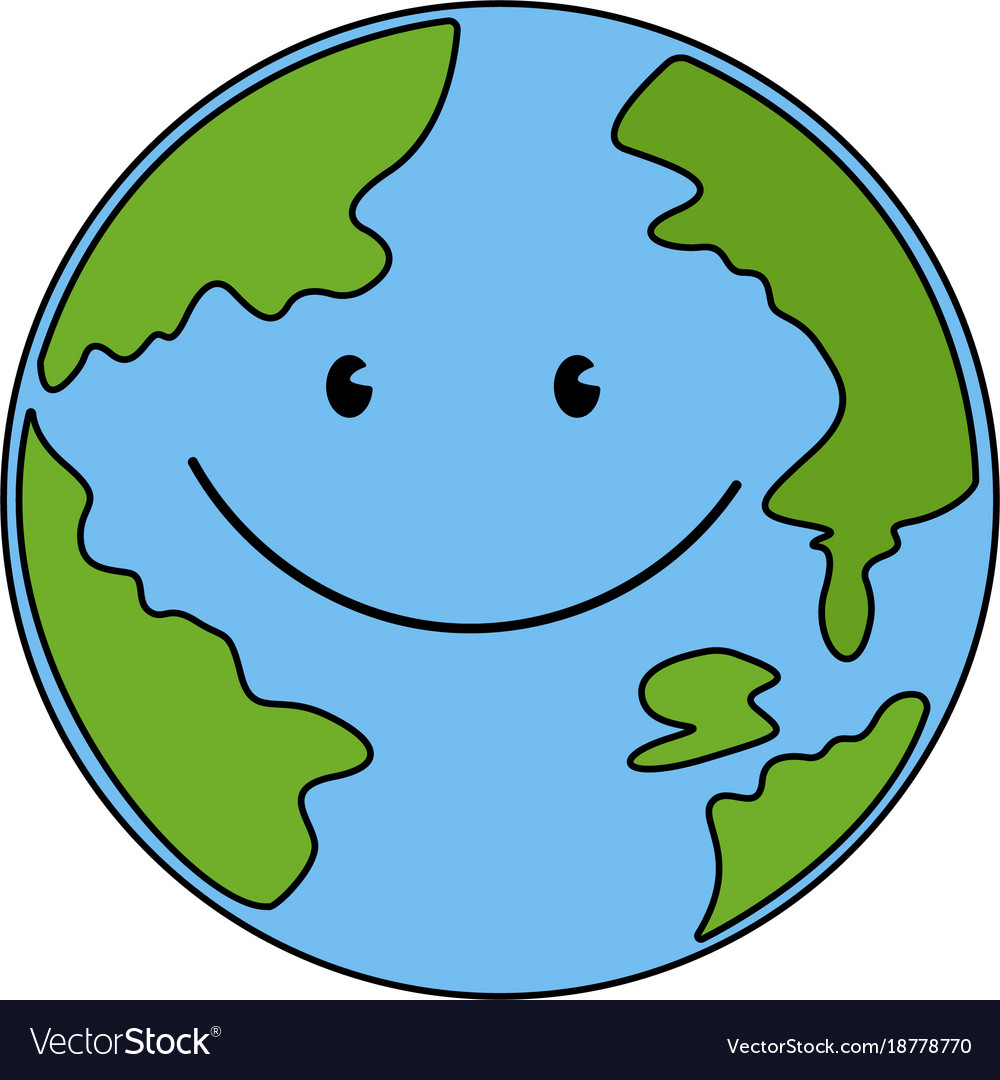
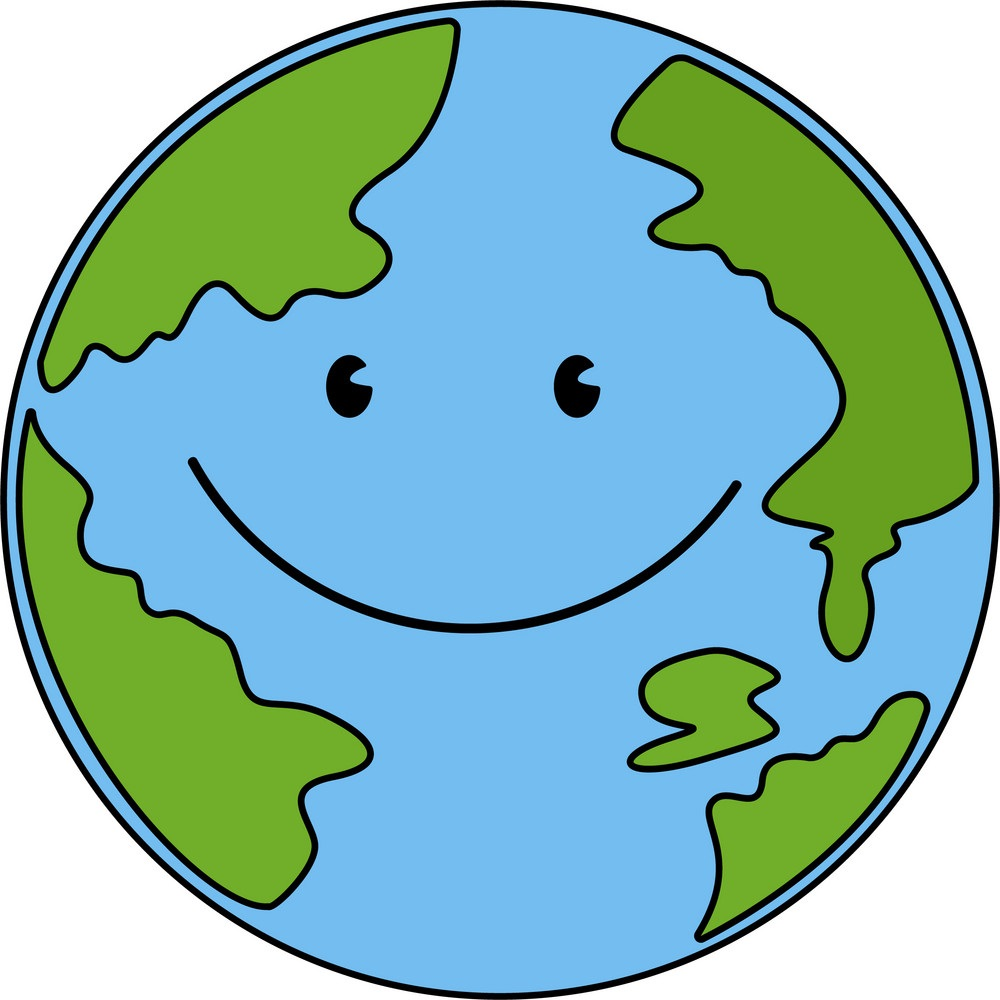
Little Earth centered.

Changed region(s): [[0.0, 0.0, 1.0, 1.0], [0.527, 0.31, 0.62, 0.434]]

diff --git a/main.html b/main.html
@@ -7,53 +7,53 @@
   <style>
     
     #container{
-      display: flex;
-      justify-content: center;
-      flex-direction: column;
+
     }
     
+    /***TOP ROW********************************/
     #mainTop{
-      height: 33vh;
+      height: 25vh;
     }
     
+    /***MIDDLE ROW*****************************/
     #mainMiddle{
-      height: 33vh;
+      height: 50vh;
       display: flex;
-      justify-content: space-between;
-      flex-direction: row;
+      justify-content: space-around;
     }
     
+    /***BOTTOM ROW*****************************/
     #mainBottom{
-      height: 33vh;
+      height: 25vh;
     }
     
-    div {
-      border: 1px solid yellow;
-    }
-    
+    /*For debug only*/
     .middle{
       border: 1px solid red;
-      width: 33%;
     }
     
+    /*---LEFT COLUMN-------------------------*/
+    #middleLeft {
+      
+    }
+    
+    /*---CENTRE COLUMN-------------------------*/
     #middleCentre{
-      flex-grow: 2;
+      
     }
     .earthImgContainer{
-      height: 33vh;
+
     }
     
     #earthImg{
-      width: 100%;
-      margin-top: -5%;
-      clip-path: circle(43%);
-      text-align: center;
+      width: auto;
+      height: 50vh;
+      clip-path: circle(50%);
     }
     
+    /*---RIGHT COLUMN-------------------------*/
     #middleRight{
-      display: flex;
-      justify-content: space-between;
-      flex-direction: column;
+
     }
     
     .actionBtn{
@@ -93,8 +93,7 @@
         </div>
       </div>
       <div class="middleRight middle">
-        <div class="actionBtn actionElectricity">
-        </div>
+        <div class="actionBtn actionElectricity"></div>
         <div class="actionBtn actionWater"></div>
         <div class="actionBtn actionBiodiversity"></div>
       </div>

diff --git a/CSS/mainstyle.css b/CSS/mainstyle.css
@@ -4,8 +4,11 @@ html {
     background-repeat: no-repeat;
 }
 
-body {
-  margin: 0;
-  padding: 0;
+body, html {
+  margin: 0px;
+  padding: 0px;
+}
+
+* {
   box-sizing: border-box;
 }
